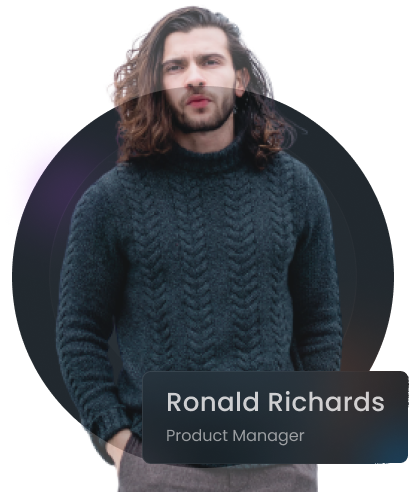
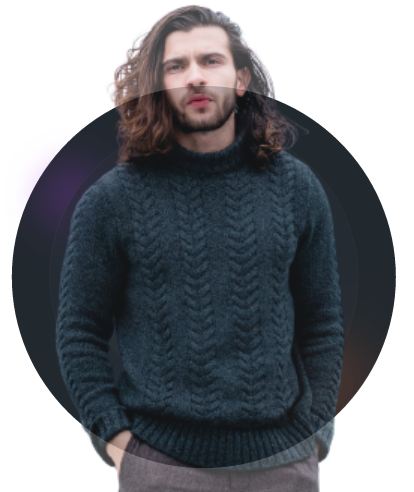
Section with foto has been added

diff --git a/index.html b/index.html
@@ -162,28 +162,28 @@
                                 <p><a href="#">Visit</a></p>
                             </div>
                         </li>
-                <li class="card-list-item">
-                    <div class="card-text-about-apps flex">
-                        <img src="/img/invision-logo.svg" alt="">
-                        <div class="card-text-about-apps-wrapper flex">
-                            <h3>Invision</h3>
-                            <h4>Free & Paid</h4>
-                        </div>
-                    </div>
-                    <p>Lorem ipsum dolor sit amet, consectetur adipiscing elit.</p>
-                    <div class="card-images-wrapper flex">
-                        <ul class="card-images-list flex">
-                            <li><img src="/img/heard.svg" alt=""></li>
-                            <li><img src="/img/folder.svg" alt=""></li>
-                        </ul>
-                        <p><a href="#">Visit</a></p>
-                    </div>
-                </li>
-                </ul>
-            </div>
-            <div class="button-wrapp flex">
-                <input class="button" type="button" value="Load more">
-            </div>
+                        <li class="card-list-item">
+                            <div class="card-text-about-apps flex">
+                                <img src="/img/invision-logo.svg" alt="">
+                                <div class="card-text-about-apps-wrapper flex">
+                                    <h3>Invision</h3>
+                                    <h4>Free & Paid</h4>
+                                </div>
+                            </div>
+                            <p>Lorem ipsum dolor sit amet, consectetur adipiscing elit.</p>
+                            <div class="card-images-wrapper flex">
+                                <ul class="card-images-list flex">
+                                    <li><img src="/img/heard.svg" alt=""></li>
+                                    <li><img src="/img/folder.svg" alt=""></li>
+                                </ul>
+                                <p><a href="#">Visit</a></p>
+                            </div>
+                        </li>
+                    </ul>
+                </div>
+                <div class="button-wrapp flex">
+                    <input class="button" type="button" value="Load more">
+                </div>
             </div>
         </section>
 
@@ -289,7 +289,39 @@
         </section>
 
 
-        <section class="section-4"></section>
+        <section class="section-4">
+            <div class="container">
+                <div class="wrapper-section-4 flex">
+                    <div class="foto-section-4">
+                        <div class="name-frame">
+                            <h3>Ronald Richards</h3>
+                            <p>Product Manager</p>
+                        </div>
+                    </div>
+                    <div class="text-section-4">
+                        <div class="wrapper-text-section-4">
+                            <p>Incididunt cillum do sint sint enim ullamco id deserunt mollit qui reprehenderit do.
+                                Velit ex tempor cillum ad sint occaecat. Do nulla velit labore occaecat do deserunt
+                                Lorem magna officia incididunt consectetur amet. Sunt consectetur veniam minim ex
+                                commodo sint non. Occaecat aute officia excepteur non laboris id qui ad.</p>
+                        </div>
+                    </div>
+                </div>
+            </div>
+        </section>
+        <section class="BAA">
+            <div class="container">
+                <h2></h2>
+                <p></p>
+                <div class="foot-btn">
+                <div class="input-wrapper  flex">
+                    <img src="/img/search.svg" alt="">
+                    <input type="text" placeholder="find more than 430+ tools...">
+                    <button class="search-button">Search</button>
+                </div>
+            </div>
+        </div>
+        </section>
     </main>
 </body>
 

diff --git a/style.css b/style.css
@@ -509,3 +509,77 @@ button:not(:hover){
     transition: 0.3s;
 }
 /* Section 5  */
+
+.section-4{ 
+    margin-top: 200px;
+}
+.wrapper-section-4{ 
+    align-items: center;
+    justify-content: space-around;
+}
+.foto-section-4{ 
+    background: url(/img/ronald.png) no-repeat;
+    height: 492px;
+    width: 415px;
+}
+.name-frame{ 
+    margin-top: 372px;
+    margin-left: 130px;
+    padding: 10px 22px;
+    width: 265px;
+    height: 91px;
+    border-radius: 8px;
+    backdrop-filter: blur(50px);
+    background: rgba(40, 48, 54, 0.2);
+}
+.name-frame h3{ 
+    color: rgba(255, 253, 253, 0.78);
+    font-family: var(--main-font);
+    font-size: 26px;
+    font-weight: var(--Medium);
+    line-height: 39px;
+    letter-spacing: 1.5%;
+    text-align: left;
+    margin: 0;
+    padding: 0;
+}
+.name-frame p{ 
+    color: rgba(255, 253, 253, 0.55);
+    font-family: var(--main-font);
+    font-size: 16px;
+    font-weight: var(--Regular);
+    line-height: 24px;
+    letter-spacing: 0%;
+    text-align: left;
+    margin: 0;
+    padding: 0;
+}
+.text-section-4{ 
+    width: 515px;
+    height: 336px;
+    background: url(/img/“.png) no-repeat;
+    background-position: left top;
+}
+.wrapper-text-section-4 p{ 
+    color: rgba(255, 255, 255, 0.78);
+    font-family: var(--second-font);
+    font-size: 14px;
+    font-weight: var(--Regular);
+    line-height: 30px;
+    letter-spacing: 1.5%;
+    text-align: left;
+    margin: 0;
+    padding: 0;
+    width: 390px;   
+    display: flex;
+    margin-top: 100px;
+    margin-right: 20px;
+}
+
+
+
+.foot-btn{ 
+    display: flex;
+    justify-content: center;
+}
+
